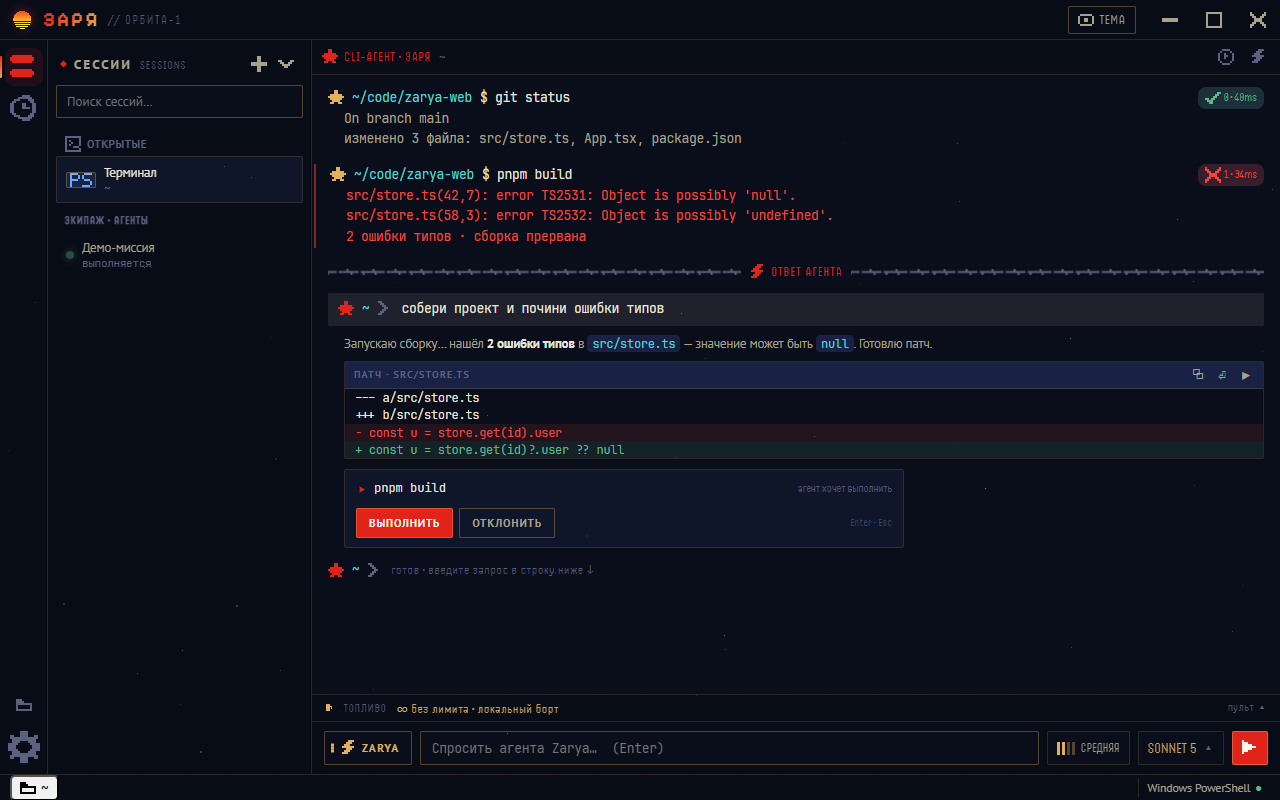
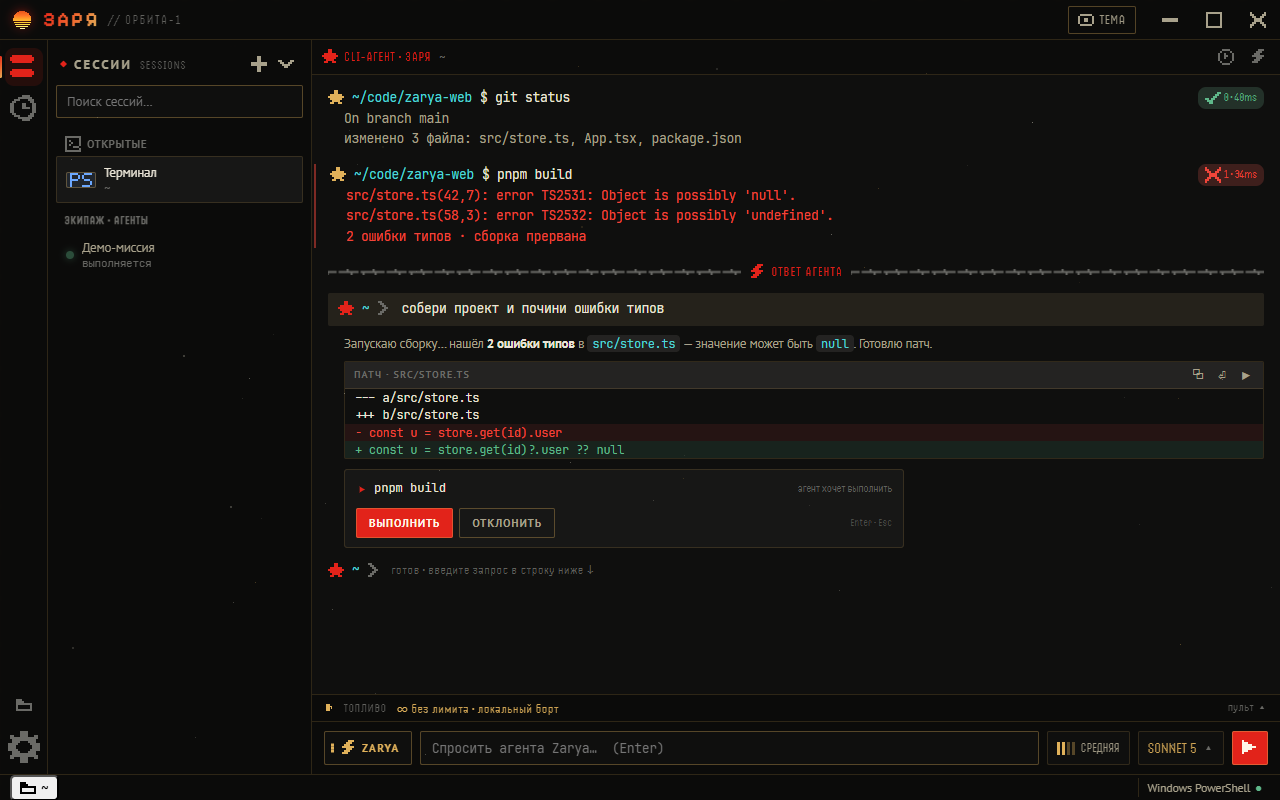
style: neutral graphite for Заря · Космос — drop the navy cast
The default theme's surfaces were navy (#0a0e1a … #192244), which read
as "blue app" rather than as the red/brass identity the design actually
rests on. They are now neutral graphite, keeping the original luminance
steps (panel < bg < elev1 < elev2) so depth and hierarchy are unchanged,
with a 1-2 point warm bias so the greys don't go clinical next to the
brass. Accents, borders and the cream foregrounds are untouched.

ANSI black/brightBlack follow the chrome; the other ANSI slots stay true
to their names, since programs rely on blue being blue.

The window's pre-paint backgroundColor followed the old navy and would
have flashed a colour the app no longer uses, so it tracks the theme now.
README screenshots regenerated on top of this.

Claude-Session: https://claude.ai/code/session_019sSoZuZfTtC6ZsRACEnUMA

diff --git a/src/renderer/src/features/themes/themes.ts b/src/renderer/src/features/themes/themes.ts
@@ -14,16 +14,21 @@ export const zaryaCosmos: ThemeDef = {
   id: 'zarya-cosmos',
   name: 'Заря · Космос',
   type: 'dark',
+  // Neutral graphite, not navy. The surfaces keep the original luminance steps
+  // (panel < bg < elev1 < elev2) so depth reads the same, but the blue cast is
+  // gone — the only colour in the chrome is the red/brass accent, which is what
+  // the identity actually rests on. A 1–2 point warm bias keeps the greys from
+  // going clinical next to the brass.
   ui: {
-    bg: '#0a0e1a',
-    bgElev1: '#10162a',
-    bgElev2: '#192244',
-    panel: '#080b16',
+    bg: '#0f0f0e',
+    bgElev1: '#171716',
+    bgElev2: '#242322',
+    panel: '#0a0a09',
     border: 'rgba(224, 177, 90, 0.16)',
     borderStrong: 'rgba(224, 177, 90, 0.34)',
     fg: '#e9e4d6',
     fgDim: '#a8a18b',
-    fgFaint: '#5c6180',
+    fgFaint: '#6a6a66',
     accent: '#e2231a',
     accent2: '#e0b15a',
     accentGradient: 'linear-gradient(120deg, #e2231a 0%, #f0662e 52%, #e0b15a 100%)',
@@ -32,11 +37,14 @@ export const zaryaCosmos: ThemeDef = {
     warn: '#e0b15a'
   },
   terminal: {
-    background: '#0a0e1a',
+    background: '#0f0f0e',
     foreground: '#e4dfd0',
     cursor: '#e0b15a',
     selectionBackground: '#e2231a44',
-    black: '#141a2e',
+    // ANSI black/brightBlack are the terminal's own greys — neutralized to match
+    // the chrome. The other ANSI slots stay true to their names: programs rely
+    // on blue being blue.
+    black: '#1b1b1a',
     red: '#e2231a',
     green: '#6fbf8e',
     yellow: '#e0b15a',
@@ -44,7 +52,7 @@ export const zaryaCosmos: ThemeDef = {
     magenta: '#c77dff',
     cyan: '#4fd6d6',
     white: '#d7d2c2',
-    brightBlack: '#4a5170',
+    brightBlack: '#565654',
     brightRed: '#ff5a4a',
     brightGreen: '#8fe0ac',
     brightYellow: '#f5ce7a',

diff --git a/src/renderer/src/styles/base.css b/src/renderer/src/styles/base.css
@@ -26,22 +26,22 @@
 
 :root {
   /* palette defaults (Заря · Космос) — overwritten by applyTheme() */
-  --bg: #0a0e1a;
-  --bg-elev1: #10162a;
-  --bg-elev2: #192244;
-  --panel: #080b16;
+  --bg: #0f0f0e;
+  --bg-elev1: #171716;
+  --bg-elev2: #242322;
+  --panel: #0a0a09;
   --border: rgba(224, 177, 90, 0.16);
   --border-strong: rgba(224, 177, 90, 0.34);
   --fg: #e9e4d6;
   --fg-dim: #a8a18b;
-  --fg-faint: #5c6180;
+  --fg-faint: #6a6a66;
   --accent: #e2231a;
   --accent-2: #e0b15a;
   --accent-grad: linear-gradient(120deg, #e2231a 0%, #f0662e 52%, #e0b15a 100%);
   --danger: #f0453a;
   --success: #5fb88a;
   --warn: #e0b15a;
-  --term-bg: #0a0e1a;
+  --term-bg: #0f0f0e;
 
   /* layout — constructivist: sharp geometry, minimal rounding */
   --titlebar-h: 40px;

diff --git a/src/main/index.ts b/src/main/index.ts
@@ -142,7 +142,9 @@ function createWindow(): void {
     minHeight: 560,
     frame: false,
     show: false,
-    backgroundColor: useAcrylic ? undefined : '#0b0f1a',
+    // Matches the default theme's bg so the window never flashes a colour the
+    // app doesn't use before the renderer paints.
+    backgroundColor: useAcrylic ? undefined : '#0f0f0e',
     ...(useAcrylic ? { backgroundMaterial: 'acrylic' as const } : {}),
     webPreferences: {
       preload: join(__dirname, '../preload/index.js'),
